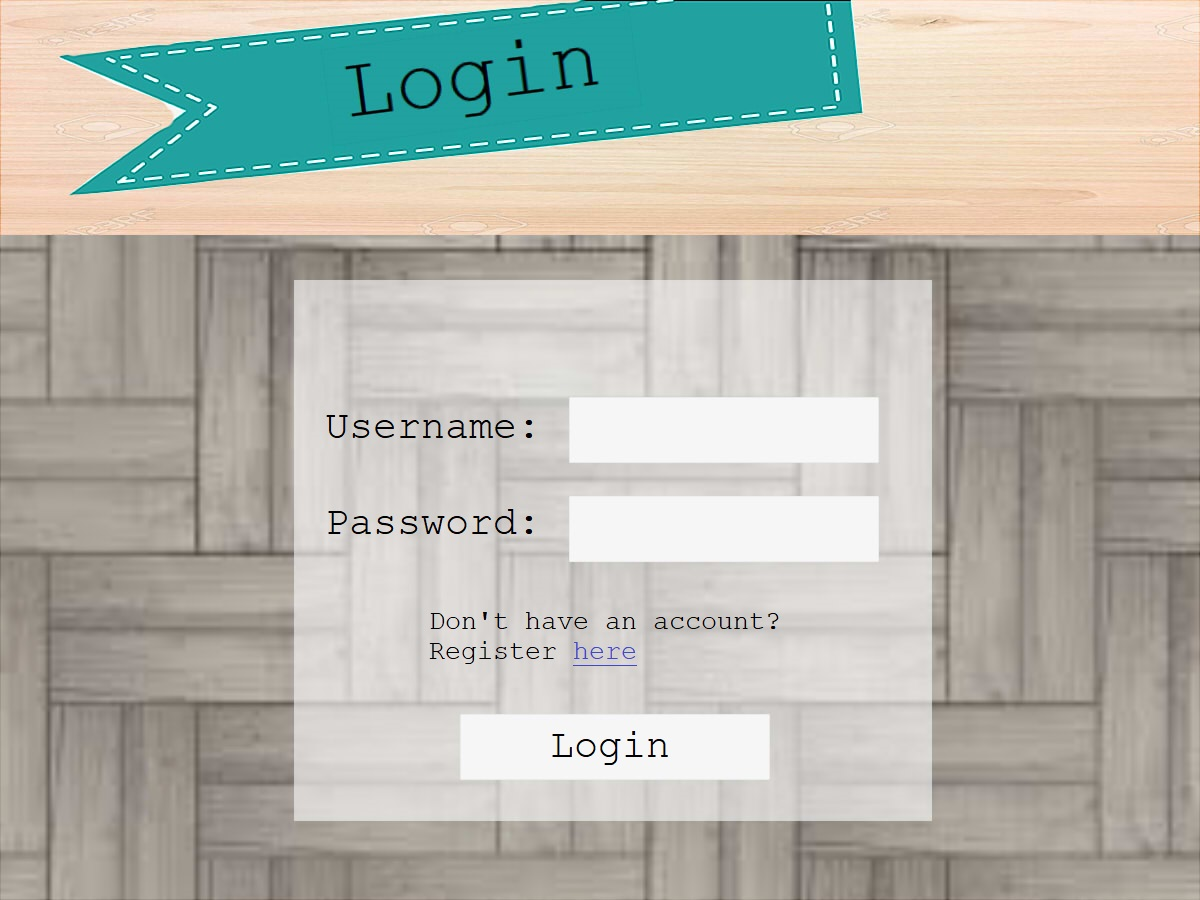
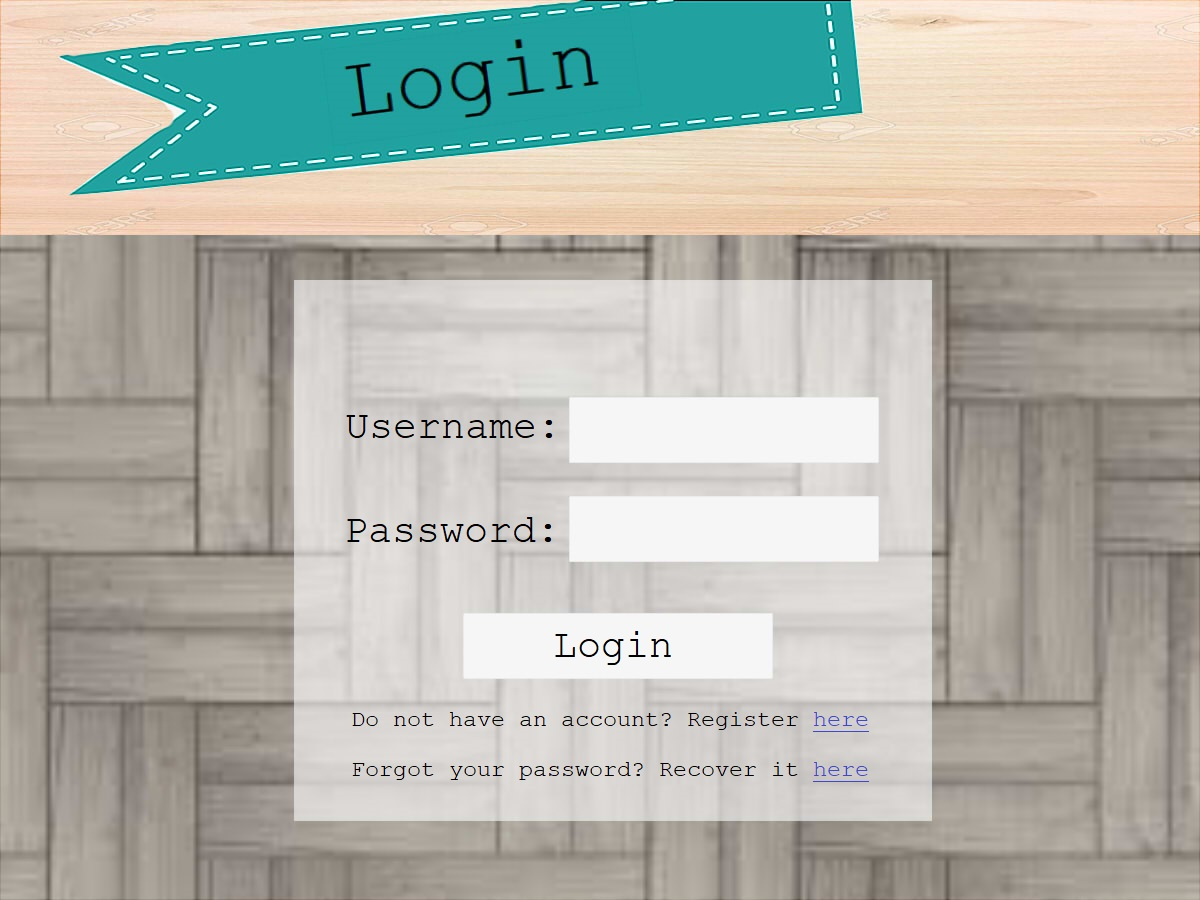
Added recovery page

diff --git a/recoverPage.py b/recoverPage.py
@@ -1,0 +1,173 @@
+# Brings in all the pygame keywords we need
+from pygame.locals import *
+
+# Import and initialize the pygame library
+import pygame
+pygame.mixer.pre_init(44100, -16, 1, 512)
+pygame.init()
+pygame.font.init()
+
+# Imports Text Box
+from inputBox import InputBox
+
+# Import SQL Connection 
+import mysqlConnection
+
+# Import Popup    
+import popup
+
+# Mouseover animation(Makes the image transparent if cursor is touching)
+def mouseover(img, pos):
+    if pos.collidepoint(pygame.mouse.get_pos()):
+        img.set_alpha(50)
+    else:
+        img.set_alpha(255)
+
+# Click sound
+def clicksound():
+    pygame.mixer.Channel(0).play(pygame.mixer.Sound('audio\Click.wav'), maxtime=2000)
+
+class Recover:
+    def __init__(self, username, user, screen, display_surface):
+        self.username = username
+        self.user = user
+        self.display_surface = display_surface
+        self.screen = screen
+        self.successfulRecover = False
+        self.popup= popup.PopUp(display_surface)
+        # Background1 is for the header
+        # Button 1 is back button
+        # Button 2 is query button
+
+    def loadAssets(self):
+        self.backToLogin = False
+
+        # Set background
+        self.background1_image = pygame.image.load("images/recover.jpg")
+        self.background1_position = [0,0]
+        
+        # Set back button
+        self.backbutton3_image = pygame.image.load("images/w2.png")
+        self.backbutton3_position = self.backbutton3_image.get_rect().move(275, 260)
+        
+        # Hide Buttons
+        self.backbutton3_image.set_alpha(0)
+        
+        # Set recover button
+        self.recover_rect = pygame.Rect(460, 721, 309, 63)
+        pygame.draw.rect(self.screen, (255, 255, 255), self.recover_rect)
+        self.recover_rect_position = [0,0]
+        
+        # Set the fields for user to key in
+        self.username_box1 = InputBox(569, 382, 309, 64)
+        self.email_box2 = InputBox(569, 495, 309, 66)
+
+        self.done = False
+        self.errorMessage = ""
+        self.successMessage = "Successfully Registered Account"
+        self.input_boxes = [self.username_box1, self.email_box2]
+
+    def display(self):
+        
+        clock = pygame.time.Clock()        
+        while not self.done:
+            for event in pygame.event.get():
+                if event.type == pygame.QUIT:
+                    pygame.quit()
+                    quit()
+                if event.type == MOUSEBUTTONDOWN:
+                    self.done = self.action()
+                for box in self.input_boxes:
+                    box.handle_event(event)
+                    
+            # Display background
+            self.display_surface.blit(self.background1_image, self.background1_position)
+
+            # Set back button
+            self.display_surface.blit(self.backbutton3_image, self.backbutton3_position)
+
+            # Display user, email and password input
+            for box in self.input_boxes:
+                box.draw(self.screen)
+        
+            # Refresh Register Page on key press
+            pygame.display.update()
+            clock.tick(30)
+            
+    # Register Page Actions
+    def action(self):
+        # Register button is selected
+        #if self.register_rect.collidepoint(pygame.mouse.get_pos()):
+            #username = self.username_box1.retrieveBoxValues()
+            #email = self.email_box2.retrieveBoxValues()
+            #if(self.checkInputFields(username, password, email)):
+                #mysqlConnection.createStudentAccount(username, password, email)
+                #self.successfulRegister = True
+                #for box in self.input_boxes:
+                    #box.resetText()
+                #self.popup.success(self.successMessage)
+                #return True
+            #else:
+                #self.popup.fail(self.errorMessage)
+                #for box in self.input_boxes:
+                    #box.resetText()
+                #return False
+         
+        # Back button is selected
+        if self.backbutton3_position.collidepoint(pygame.mouse.get_pos()):
+            self.backToLogin = True
+            print("Back Button Pressed!")
+            clicksound()
+            return True
+    
+    # Method to check whether input fields have been properly filled 
+    def checkInputFields(self, username, password, email):
+        passCheck = False
+        self.errorMessage = ""
+        if(len(username) <= 0 or len(password) <= 0 or len(email) <=0):
+            if(len(username) <= 0):
+                if(len(self.errorMessage) <= 0):
+                    self.errorMessage = "Username field not filled\n"
+                else:
+                    self.errorMessage += "Username field not filled\n"
+            if(len(password) <= 0):
+                if(len(self.errorMessage) <= 0):
+                    self.errorMessage = "Password field not filled\n"
+                else:
+                    self.errorMessage += "Password field not filled\n"
+            if(len(email) <= 0):
+                if(len(self.errorMessage) <= 0):
+                    self.errorMessage = "Email field not filled\n"
+                else:
+                    self.errorMessage += "Email field not filled\n"
+        else:
+            # Check for duplicate username
+            duplicatedUsername = False
+            foundDuplicate = False
+            allStudents = mysqlConnection.retrieveStudentAccountData()
+            allTeachers = mysqlConnection.retrieveTeacherAccountData()
+            
+            for i in allStudents:
+                if(username == i[0]):
+                    duplicatedUsername = True
+                    foundDuplicate = True
+                    break
+            
+            if (foundDuplicate):
+                pass
+            else:
+                for i in allTeachers:
+                    if(username == i[0]):
+                        duplicatedUsername = True
+                        break
+            if(duplicatedUsername):
+                if(len(self.errorMessage) <= 0):
+                    self.errorMessage = username + " is already taken\n"
+                else:
+                    self.errorMessage += username + " is already taken\n" 
+            else:
+                passCheck = True
+        return passCheck
+        
+        
+        

diff --git a/main.py b/main.py
@@ -15,6 +15,9 @@ import loginPage
 # Login Register Class
 import registerPage
 
+# Login Recover Class
+import recoverPage
+
 # Quiz Level Page Class
 import quizLevel
 
@@ -65,6 +68,10 @@ login.loadAssets()
 # Create Login Object
 register = registerPage.Register(username, user, screen, display_surface)
 register.loadAssets()
+
+# Create Login Object
+recover = recoverPage.Recover(username, user, screen, display_surface)
+recover.loadAssets()
 
 # Create Main Menu Object
 menu = mainmenu.MainMenu(username, user, screen, display_surface)
@@ -145,7 +152,7 @@ while running:
     elif state == 1:
         worldSelect.display()
     elif state == 2:
-        if(getattr(register, 'backToLogin') or getattr(register, 'successfulRegister')):
+        if(getattr(register, 'backToLogin') or getattr(recover, 'backToLogin') or getattr(register, 'successfulRegister')):
             setattr(login, 'done', False)
         login.display()
         if (getattr(login, 'done') and getattr(login, 'success')):
@@ -156,6 +163,9 @@ while running:
         elif (getattr(login, 'done') and getattr(login, 'registerClicked')):
             setattr(register, 'done', False)
             state = 6
+        elif (getattr(login, 'done') and getattr(login, 'recoverClicked')):
+            setattr(recover, 'done', False)
+            state = 9
     elif state == 3:
         if level.display(username, getattr(worldSelect, 'worldSelected'), getattr(worldSelect, 'levelSelected')):
             leaderBoard.loadAssets()
@@ -170,11 +180,17 @@ while running:
         register.display()
         if (getattr(register, 'done')):
             state = 2
+            login.registerClicked = False
     elif state == 7:
         uploadAssignment.display()
     elif state == 8:
         setattr(studentCustomQuizMenu, 'reload', True)
         studentCustomQuizMenu.display()
+    elif state == 9:
+        recover.display()
+        if (getattr(recover, 'backToLogin')):
+            state = 2
+            login.recoverClicked = False
     elif state == -1:
         running = False
  

diff --git a/loginPage.py b/loginPage.py
@@ -13,7 +13,7 @@ from inputBox import InputBox
 # Import SQL Connection 
 import mysqlConnection
 
-# Import Popuo
+# Import Popup
 import popup
 
 # Mouseover animation(Makes the image transparent if cursor is touching)
@@ -41,14 +41,19 @@ class Login:
         self.background1_position = [0,0]
 
         # Set login button
-        self.login_rect = pygame.Rect(460, 714, 309, 64)
+        self.login_rect = pygame.Rect(460, 612, 309, 64)
         pygame.draw.rect(self.screen, (255, 255, 255), self.login_rect)
         self.login_rect_position = [0,0]
 
         # Set register button
-        self.register_rect = pygame.Rect(575, 639, 69, 25)
+        self.register_rect = pygame.Rect(810, 709, 69, 25)
         pygame.draw.rect(self.screen, (255, 255, 255), self.register_rect)
         self.register_rect_position = [0,0]
+
+        # Set recover button
+        self.recover_rect = pygame.Rect(810, 761, 69, 25)
+        pygame.draw.rect(self.screen, (255, 255, 255), self.recover_rect)
+        self.recover_rect_position = [0,0]
 
         #Set user and password input
         self.input_rect = pygame.Rect(566, 480, 309, 179)
@@ -57,6 +62,7 @@ class Login:
         self.done = False
         self.success = False
         self.registerClicked = False
+        self.recoverClicked = False
         self.input_boxes = [self.username_box1, self.password_box2]
         
     # Login Display
@@ -103,6 +109,12 @@ class Login:
         # Transition to Register Page
         if self.register_rect.collidepoint(pygame.mouse.get_pos()):
             self.registerClicked = True
+            clicksound()
+            return True
+
+        # Transition to Recover Page
+        if self.recover_rect.collidepoint(pygame.mouse.get_pos()):
+            self.recoverClicked = True
             clicksound()
             return True
             
